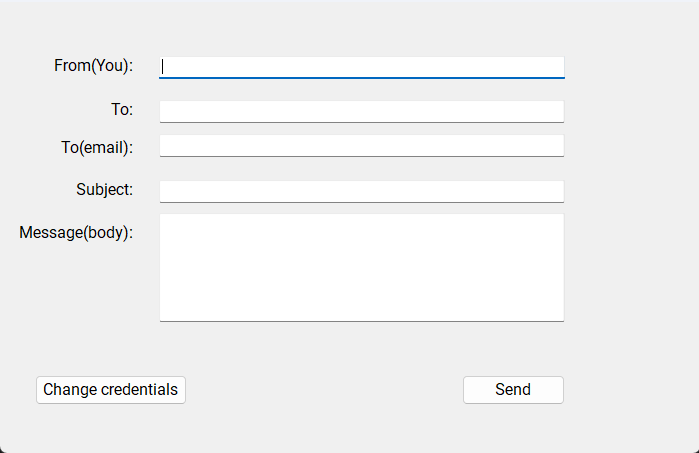
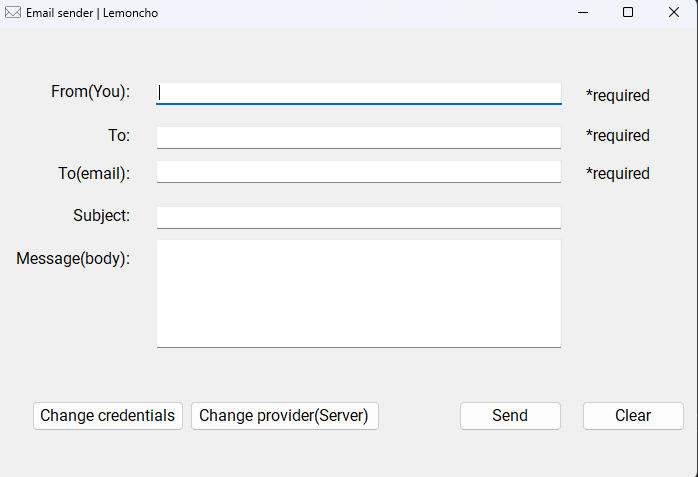
added more screenshots

diff --git a/README.md b/README.md
@@ -5,3 +5,9 @@
 Credential info window
 
 ![Screenshot 2](EmailSender/assets/Screenshots/EmailSender2.png)
+
+Provider(Server) info window
+
+![Screenshot 3](EmailSender/assets/Screenshots/EmailSender3.png)
+
+![Screenshot 4](EmailSender/assets/Screenshots/EmailSender4.png)

diff --git a/EmailSender/README.md b/EmailSender/README.md
@@ -5,3 +5,9 @@
 Credential info window
 
 ![Screenshot 2](assets/Screenshots/EmailSender2.png)
+
+Provider(Server) info window
+
+![Screenshot 3](assets/Screenshots/EmailSender3.png)
+
+![Screenshot 4](assets/Screenshots/EmailSender4.png)
